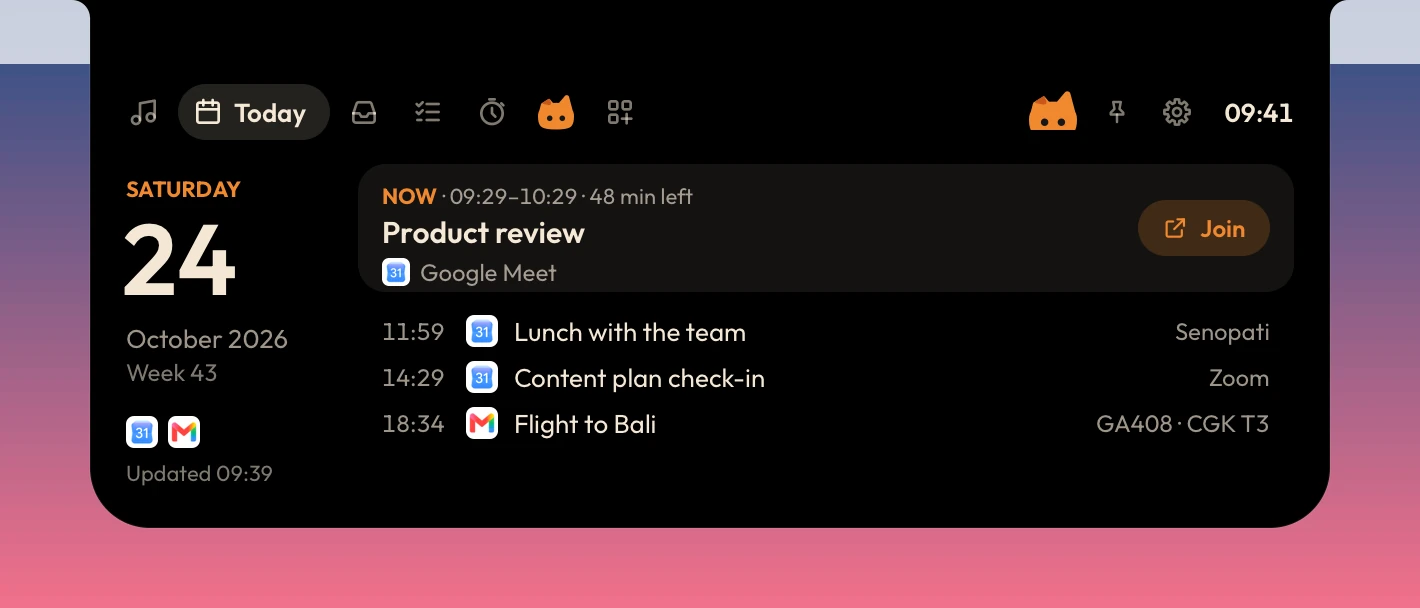
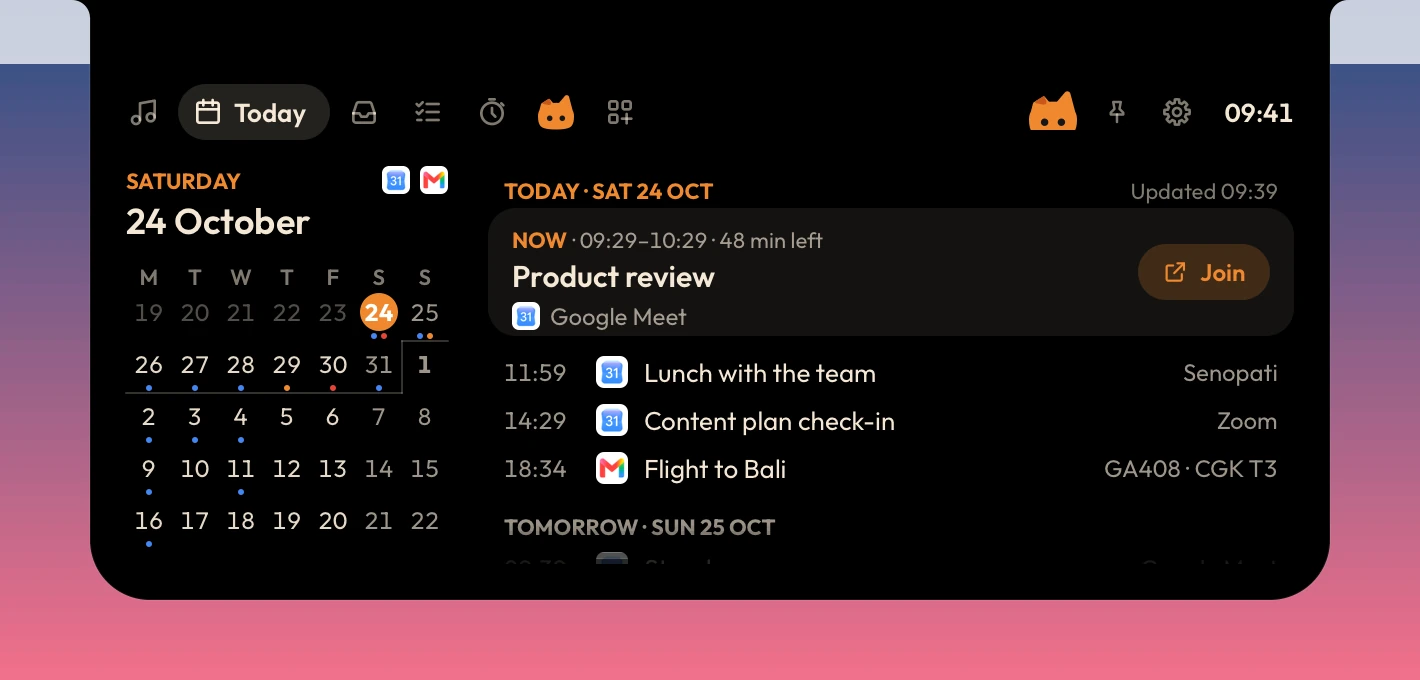
Release 0.2.10: the website and its Today pictures
New in 0.2.10 with "Today shows the weeks ahead" first (it replaces 0.2.8's
"Your day on Today" tile), the hero line, the fallback version (sizes stay:
installer 2.58 MB, Mac 4.3 MB), the Today tile's text, "Your weeks in
memory.", the Mac captions and the sidebar's search words. The five Today
pictures retaken from this release's own build (CI poni.exe under Wine at
200 %, Classic and Oyen in the same minute; the mac workflow's renders for Mac
Classic, Oyen and Pill), with their sizes on the page, and the README's pages
picture redrawn from them.

diff --git a/site/index.html b/site/index.html
@@ -633,7 +633,7 @@ dialog.more-sheet::backdrop { background: rgba(0, 0, 0, 0.42); -webkit-backdrop-
     <div class="side-sec">
       <p class="side-group">Overview</p>
       <a class="side-item" href="#top" data-k="home start download hero notch island"><i class="ic" style="--c:#1d1d1f"><svg class="ico"><use href="#i-screen"/></svg></i><span>A living notch</span></a>
-      <a class="side-item" href="#new" data-k="new release 0.2.9 latest changes mac youtube spotify browser now playing pill notch oyen oyenza tab system health add-ons clipboard history gone today your day google calendar gmail meeting join flights bills clipboard add-on touch screen tablet taps tap through notch eyes hide and seek macbook camera update available new version install now next start updater mac installer dmg window steps health oyenza sign in mac headphones full screen power island stays maximized windows sing along romaji lyrics mac prayer script reader teleprompter games power"><i class="ic" style="--c:#bf4800"><svg class="ico"><use href="#i-spark"/></svg></i><span>New in 0.2.9</span></a>
+      <a class="side-item" href="#new" data-k="new release 0.2.10 latest changes today five weeks week ahead schedule month grid dots allow turn on mac youtube spotify browser now playing pill notch oyen oyenza tab system health add-ons clipboard history gone today your day google calendar gmail meeting join flights bills clipboard add-on touch screen tablet taps tap through notch eyes hide and seek macbook camera update available new version install now next start updater mac installer dmg window steps health oyenza sign in mac headphones full screen power island stays maximized windows sing along romaji lyrics mac prayer script reader teleprompter games power"><i class="ic" style="--c:#bf4800"><svg class="ico"><use href="#i-spark"/></svg></i><span>New in 0.2.10</span></a>
       <a class="side-item" href="#highlights" data-k="best gallery overview"><i class="ic" style="--c:#ff9f0a"><svg class="ico"><use href="#i-spark"/></svg></i><span>Highlights</span></a>
       <a class="side-item" href="#features" data-k="rest idle music timer volume charging headphones bluetooth money clock eyes prayer countdown"><i class="ic" style="--c:#636366"><svg class="ico"><use href="#i-island"/></svg></i><span>While it rests</span></a>
     </div>
@@ -645,7 +645,7 @@ dialog.more-sheet::backdrop { background: rgba(0, 0, 0, 0.42); -webkit-backdrop-
       <a class="side-item" href="#health" data-k="steps health apple health connect add-on"><i class="ic" style="--c:#34c759"><svg class="ico"><use href="#i-steps"/></svg></i><span>Health</span></a>
       <a class="side-item" href="#shelf" data-k="files shelf drag drop"><i class="ic" style="--c:#007aff"><svg class="ico"><use href="#i-tray"/></svg></i><span>Shelf</span></a>
       <a class="side-item" href="#tasks" data-k="todo to-do tasks list"><i class="ic" style="--c:#ff9500"><svg class="ico"><use href="#i-list"/></svg></i><span>Tasks</span></a>
-      <a class="side-item" href="#today" data-k="today date calendar google calendar gmail meeting join flights bills your day sign in"><i class="ic" style="--c:#ff3b30"><svg class="ico"><use href="#i-cal"/></svg></i><span>Today</span></a>
+      <a class="side-item" href="#today" data-k="today date calendar google calendar gmail meeting join flights bills your day five weeks week ahead schedule month grid sign in allow turn on"><i class="ic" style="--c:#ff3b30"><svg class="ico"><use href="#i-cal"/></svg></i><span>Today</span></a>
       <a class="side-item" href="#system" data-k="system cpu gpu memory ram disk network battery processes stats power psu watts add-on"><i class="ic" style="--c:#636366"><svg class="ico"><use href="#i-gauge"/></svg></i><span>System</span></a>
       <a class="side-item" href="#settings" data-k="settings gear account preferences"><i class="ic" style="--c:#8e8e93"><svg class="ico"><use href="#i-gear"/></svg></i><span>Settings</span></a>
     </div>
@@ -687,7 +687,7 @@ dialog.more-sheet::backdrop { background: rgba(0, 0, 0, 0.42); -webkit-backdrop-
     </div>
     <a class="side-me" data-release="notes" href="https://github.com/lucacadalora/oyenza-studio/releases/latest">
       <img src="brand/oyen-poni-logo.svg" alt="" width="30" height="30">
-      <span><b>Version <span data-release-copy="version">0.2.9</span></b><small>What's new on GitHub</small></span>
+      <span><b>Version <span data-release-copy="version">0.2.10</span></b><small>What's new on GitHub</small></span>
     </a>
   </div>
 </aside>
@@ -728,9 +728,9 @@ dialog.more-sheet::backdrop { background: rgba(0, 0, 0, 0.42); -webkit-backdrop-
           <div class="hero-copy">
             <h1 class="t-hero-eyebrow">Oyenza Studio</h1>
             <p class="t-hero">A living notch.</p>
-            <a class="t-avail" href="#new">New in 0.2.9: YouTube and Spotify from your browser on the Mac, and Oyen is the Oyenza tab.</a>
+            <a class="t-avail" href="#new">New in 0.2.10: Today shows the next five weeks, beside your schedule from now.</a>
             <div class="buybox">
-              <div><b>Free for Windows and Mac</b><span class="fine">Open source · Windows <span data-release="size">2.6&nbsp;MB</span> · Mac <span data-release="mac-size">4.3&nbsp;MB</span> · <a class="notes" data-release="notes" href="https://github.com/lucacadalora/oyenza-studio/releases/latest">What's new in <span data-release="version">0.2.9</span></a></span></div>
+              <div><b>Free for Windows and Mac</b><span class="fine">Open source · Windows <span data-release="size">2.6&nbsp;MB</span> · Mac <span data-release="mac-size">4.3&nbsp;MB</span> · <a class="notes" data-release="notes" href="https://github.com/lucacadalora/oyenza-studio/releases/latest">What's new in <span data-release="version">0.2.10</span></a></span></div>
               <a class="btn dl-primary" href="https://github.com/lucacadalora/oyenza-studio/releases/latest/download/Oyenza-Studio-Setup.exe">Download</a>
             </div>
             <a class="link hero-other dl-other" data-release="mac-link" href="https://github.com/lucacadalora/oyenza-studio/releases/latest/download/Oyenza-Studio-Mac.dmg">Download for Mac</a>
@@ -749,13 +749,13 @@ dialog.more-sheet::backdrop { background: rgba(0, 0, 0, 0.42); -webkit-backdrop-
   </section>
 
   <section class="sec band" id="new" aria-labelledby="new-title">
-    <div class="content head rv"><h2 class="t-l" id="new-title">New in 0.2.9.</h2></div>
+    <div class="content head rv"><h2 class="t-l" id="new-title">New in 0.2.10.</h2></div>
     <div class="content news">
+      <a class="news-tile rv" href="#today"><p class="t-card">Today shows the weeks ahead</p><p class="t-tile">Five weeks at a glance beside your schedule: the meeting on now with Join, then every day that has something. Click a date to jump there.</p></a>
       <a class="news-tile rv" href="#mac"><p class="t-card">YouTube and Spotify on the Mac</p><p class="t-tile">Music from your browser (YouTube, YouTube Music, Spotify on the web) and every other player on your Mac shows on the island, with lyrics.</p></a>
       <a class="news-tile rv" href="#mac"><p class="t-card">Pill on a MacBook</p><p class="t-tile">At rest, Pill goes back into the notch. Music, the timer and pop-ups float as the pill below it.</p></a>
       <a class="news-tile rv" href="#oyenza"><p class="t-card">Oyen is the Oyenza tab</p><p class="t-tile">He waves as the island opens, follows your pointer over the tabs and hops when you click him. Today now sits beside Music.</p></a>
       <a class="news-tile rv" href="#addons"><p class="t-card">System and Health are add-ons</p><p class="t-tile">Both stay off until you switch them on, so the island does less at rest. Clipboard history is gone.</p></a>
-      <a class="news-tile rv" href="#today"><p class="t-card">Your day on Today</p><p class="t-tile">Sign in with Oyenza and switch on Google Calendar or Gmail: the meeting on now with Join, then the rest of your day.</p></a>
       <a class="news-tile rv" href="#on-top"><p class="t-card">Taps go through</p><p class="t-tile">On a touch screen, taps beside and below the island reach the app under it, as mouse clicks always did.</p></a>
       <a class="news-tile rv" href="#mac"><p class="t-card">Hide and seek</p><p class="t-tile">On a MacBook with a notch, the eyes peek out beside the camera, follow your pointer and duck behind it to cross.</p></a>
       <a class="news-tile rv" href="#on-top"><p class="t-card">The island stays</p><p class="t-tile">Over a maximized window it stays on screen again, in every theme. Want the top edge clear? Idle look › Hidden until hover.</p></a>
@@ -950,10 +950,10 @@ dialog.more-sheet::backdrop { background: rgba(0, 0, 0, 0.42); -webkit-backdrop-
     </div>
     <div class="content bento">
       <article class="tile rv wide" id="today">
-        <div class="tile-text"><div><h4 class="t-card">Today</h4><p class="t-tile">Your day from Google Calendar and Gmail: the meeting on now with Join, then events, flights and bills due today.</p></div><img class="tile-pose" src="brand/art/poses/oyen-today.webp" alt="" width="480" height="499" loading="lazy"></div>
+        <div class="tile-text"><div><h4 class="t-card">Today</h4><p class="t-tile">Five weeks from Google Calendar and Gmail: a dot under each day with something on, and your schedule from now, with Join for the meeting on now.</p></div><img class="tile-pose" src="brand/art/poses/oyen-today.webp" alt="" width="480" height="499" loading="lazy"></div>
         <div class="tile-shot"><div class="sky-fill"></div><div class="isl">
-          <img class="look-classic" src="assets/shots/classic/page-today-day.webp" alt="The Today page: the date beside the meeting on now with Join, then the rest of the day, a flight and a bill due today" width="660" height="243" loading="lazy">
-          <img class="look-oyen" src="assets/shots/oyen/page-today-day.webp" alt="The Today page in the Oyen theme: the meeting on now with Join, then the rest of the day" width="660" height="243" loading="lazy">
+          <img class="look-classic" src="assets/shots/classic/page-today-day.webp" alt="The Today page: the date and five weeks of days, a dot under each one with something on, beside the meeting on now with Join, then lunch, a call, a flight and a bill due" width="660" height="279" loading="lazy">
+          <img class="look-oyen" src="assets/shots/oyen/page-today-day.webp" alt="The Today page in the Oyen theme: five weeks of days beside the meeting on now with Join, then the rest of the day" width="660" height="279" loading="lazy">
         </div></div>
       </article>
       <article class="tile rv" id="shelf">
@@ -1238,7 +1238,7 @@ dialog.more-sheet::backdrop { background: rgba(0, 0, 0, 0.42); -webkit-backdrop-
       </div>
       <div class="panel rv-zoom gap-t" data-scene="par">
         <div class="sky-layer"></div>
-        <div class="isl"><img src="assets/shots/oyen/page-today-day.webp" alt="The Today page in the Oyen theme: a cream island, brown text, today's date in Oyen's orange, the meeting on now with Join, and Oyen peeking up beside the pin" width="660" height="243" loading="lazy"></div>
+        <div class="isl"><img src="assets/shots/oyen/page-today-day.webp" alt="The Today page in the Oyen theme: a cream island, brown text, today's date in Oyen's orange among five weeks of days, the meeting on now with Join, and Oyen peeking up beside the pin" width="660" height="279" loading="lazy"></div>
         <img class="pose" src="brand/art/oyen-poni-asleep.webp" alt="Oyen asleep on the island while a song plays" width="900" height="654" loading="lazy" style="max-width:46%">
       </div>
     </div>
@@ -1316,7 +1316,7 @@ dialog.more-sheet::backdrop { background: rgba(0, 0, 0, 0.42); -webkit-backdrop-
         </div>
         <div class="duo gap-t">
           <figure class="shot-card"><img src="assets/shots/mac/classic/page-media.webp" alt="The open island hanging below a MacBook's notch: the Music page with synced lyrics" width="710" height="288" loading="lazy"><figcaption class="t-tile"><b>Music,</b> with the words.</figcaption></figure>
-          <figure class="shot-card"><img src="assets/shots/mac/classic/page-today-day.webp" alt="The Today page below the notch: the date beside the meeting on now with Join, then the rest of the day" width="710" height="304" loading="lazy"><figcaption class="t-tile"><b>Today,</b> your day at a glance.</figcaption></figure>
+          <figure class="shot-card"><img src="assets/shots/mac/classic/page-today-day.webp" alt="The Today page below the notch: five weeks of days beside the meeting on now with Join, then the rest of the day and tomorrow" width="710" height="340" loading="lazy"><figcaption class="t-tile"><b>Today,</b> your weeks at a glance.</figcaption></figure>
         </div>
       </div>
       <div class="mac-set" data-k="oyen" hidden>
@@ -1327,7 +1327,7 @@ dialog.more-sheet::backdrop { background: rgba(0, 0, 0, 0.42); -webkit-backdrop-
         </div>
         <div class="duo gap-t">
           <figure class="shot-card"><img src="assets/shots/mac/oyen/page-media.webp" alt="The open island in the Oyen theme, black around the notch with cream type and an orange play button: the Music page with synced lyrics" width="710" height="288" loading="lazy"><figcaption class="t-tile"><b>Black</b> like the notch itself.</figcaption></figure>
-          <figure class="shot-card"><img src="assets/shots/mac/oyen/page-today-day.webp" alt="The Today page in the Oyen theme below the notch" width="710" height="304" loading="lazy"><figcaption class="t-tile"><b>Today,</b> your day at a glance.</figcaption></figure>
+          <figure class="shot-card"><img src="assets/shots/mac/oyen/page-today-day.webp" alt="The Today page in the Oyen theme below the notch: five weeks beside your schedule" width="710" height="340" loading="lazy"><figcaption class="t-tile"><b>Today,</b> your weeks at a glance.</figcaption></figure>
         </div>
       </div>
       <div class="mac-set" data-k="pill" hidden>
@@ -1338,7 +1338,7 @@ dialog.more-sheet::backdrop { background: rgba(0, 0, 0, 0.42); -webkit-backdrop-
         </div>
         <div class="duo gap-t">
           <figure class="shot-card"><img src="assets/shots/mac/pill/page-media.webp" alt="The open island in Pill on a MacBook: a black card with four rounded corners floating below the notch, on the Music page with synced lyrics" width="710" height="296" loading="lazy"><figcaption class="t-tile"><b>Open,</b> below the notch.</figcaption></figure>
-          <figure class="shot-card"><img src="assets/shots/mac/pill/page-today-day.webp" alt="The Today page in Pill on a MacBook, in the same floating card" width="710" height="312" loading="lazy"><figcaption class="t-tile"><b>Every page</b> in the same card.</figcaption></figure>
+          <figure class="shot-card"><img src="assets/shots/mac/pill/page-today-day.webp" alt="The Today page in Pill on a MacBook, in the same floating card: five weeks beside your schedule" width="710" height="348" loading="lazy"><figcaption class="t-tile"><b>Every page</b> in the same card.</figcaption></figure>
         </div>
       </div>
     </div>
@@ -1416,7 +1416,7 @@ dialog.more-sheet::backdrop { background: rgba(0, 0, 0, 0.42); -webkit-backdrop-
     <div class="content">
       <div class="facts">
         <div class="fact rv"><svg class="ico"><use href="#i-user-off"/></svg><h3 class="t-card" style="font-size:21px;line-height:1.19">No account needed.</h3><p class="t-tile">No sign-up, no tracking. Your things are files in your own folder.</p></div>
-        <div class="fact rv"><svg class="ico"><use href="#i-cal"/></svg><h3 class="t-card" style="font-size:21px;line-height:1.19">Your day in memory.</h3><p class="t-tile">Today's meetings, flights and bills are kept in memory only, never written to disk.</p></div>
+        <div class="fact rv"><svg class="ico"><use href="#i-cal"/></svg><h3 class="t-card" style="font-size:21px;line-height:1.19">Your weeks in memory.</h3><p class="t-tile">The meetings, flights and bills Today shows are kept in memory only, never written to disk.</p></div>
         <div class="fact rv"><svg class="ico"><use href="#i-chip"/></svg><h3 class="t-card" style="font-size:21px;line-height:1.19">Light and smooth.</h3><p class="t-tile">Native Rust, no web view. Nothing drawn while nothing moves.</p></div>
       </div>
       <div class="specs rv">
